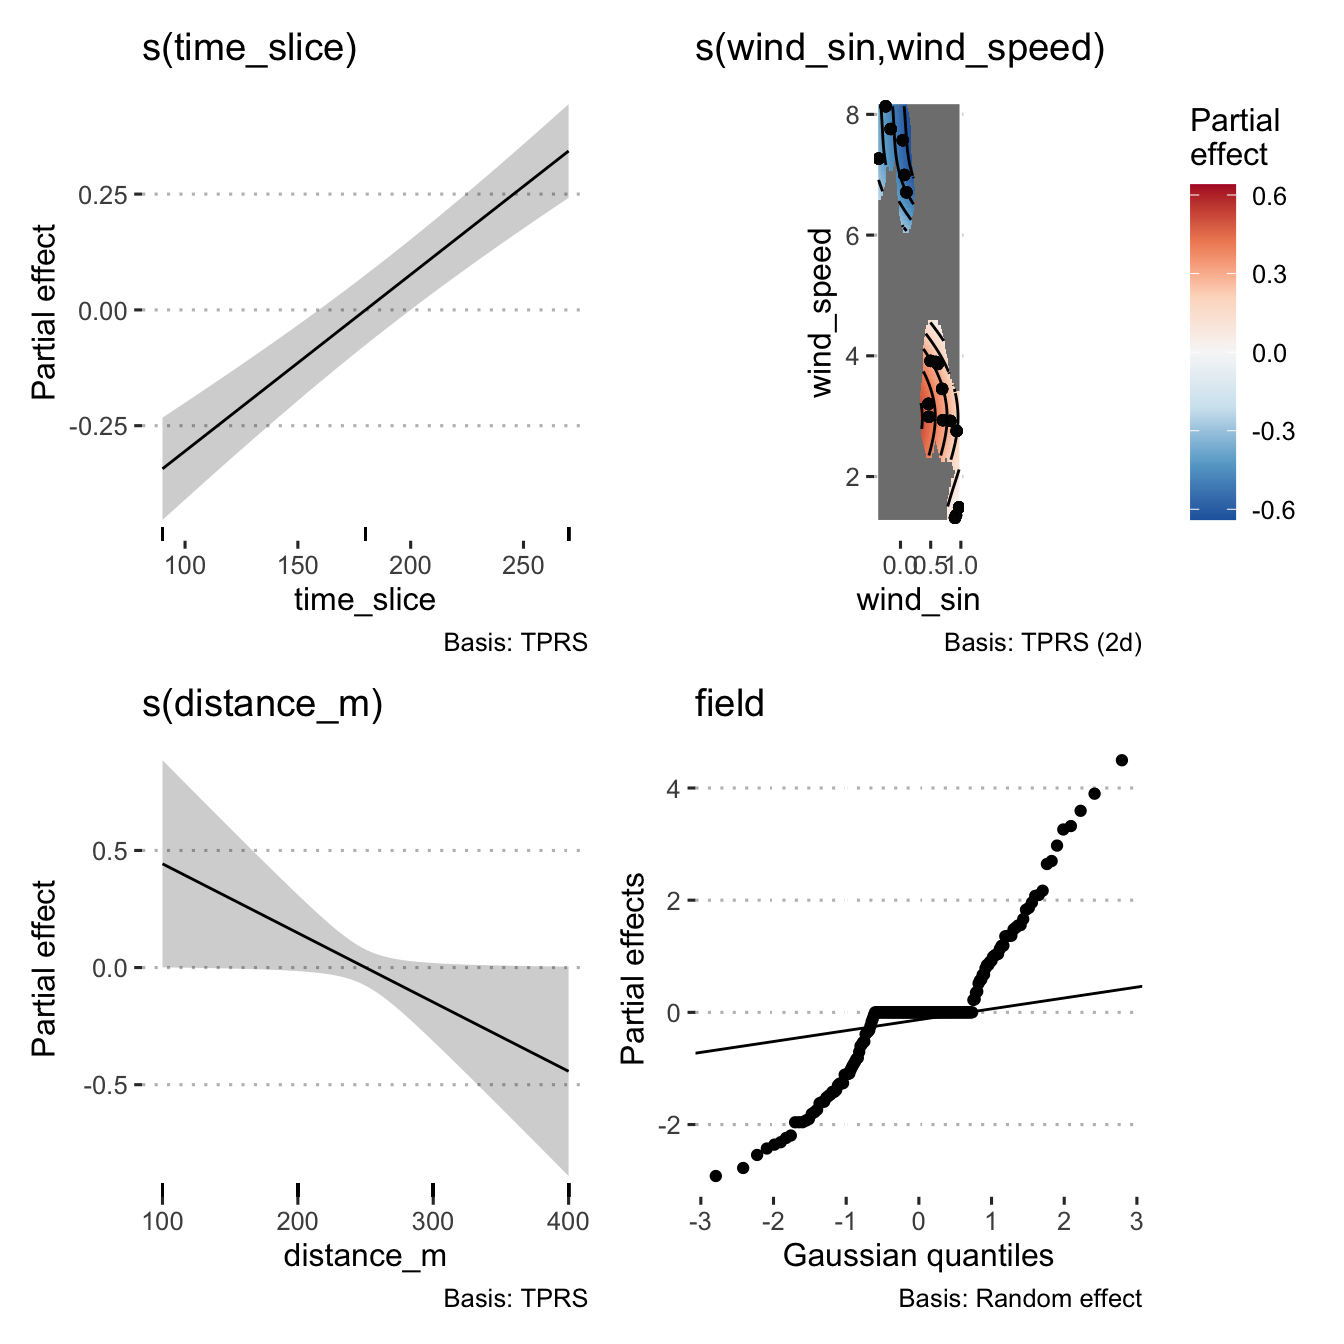
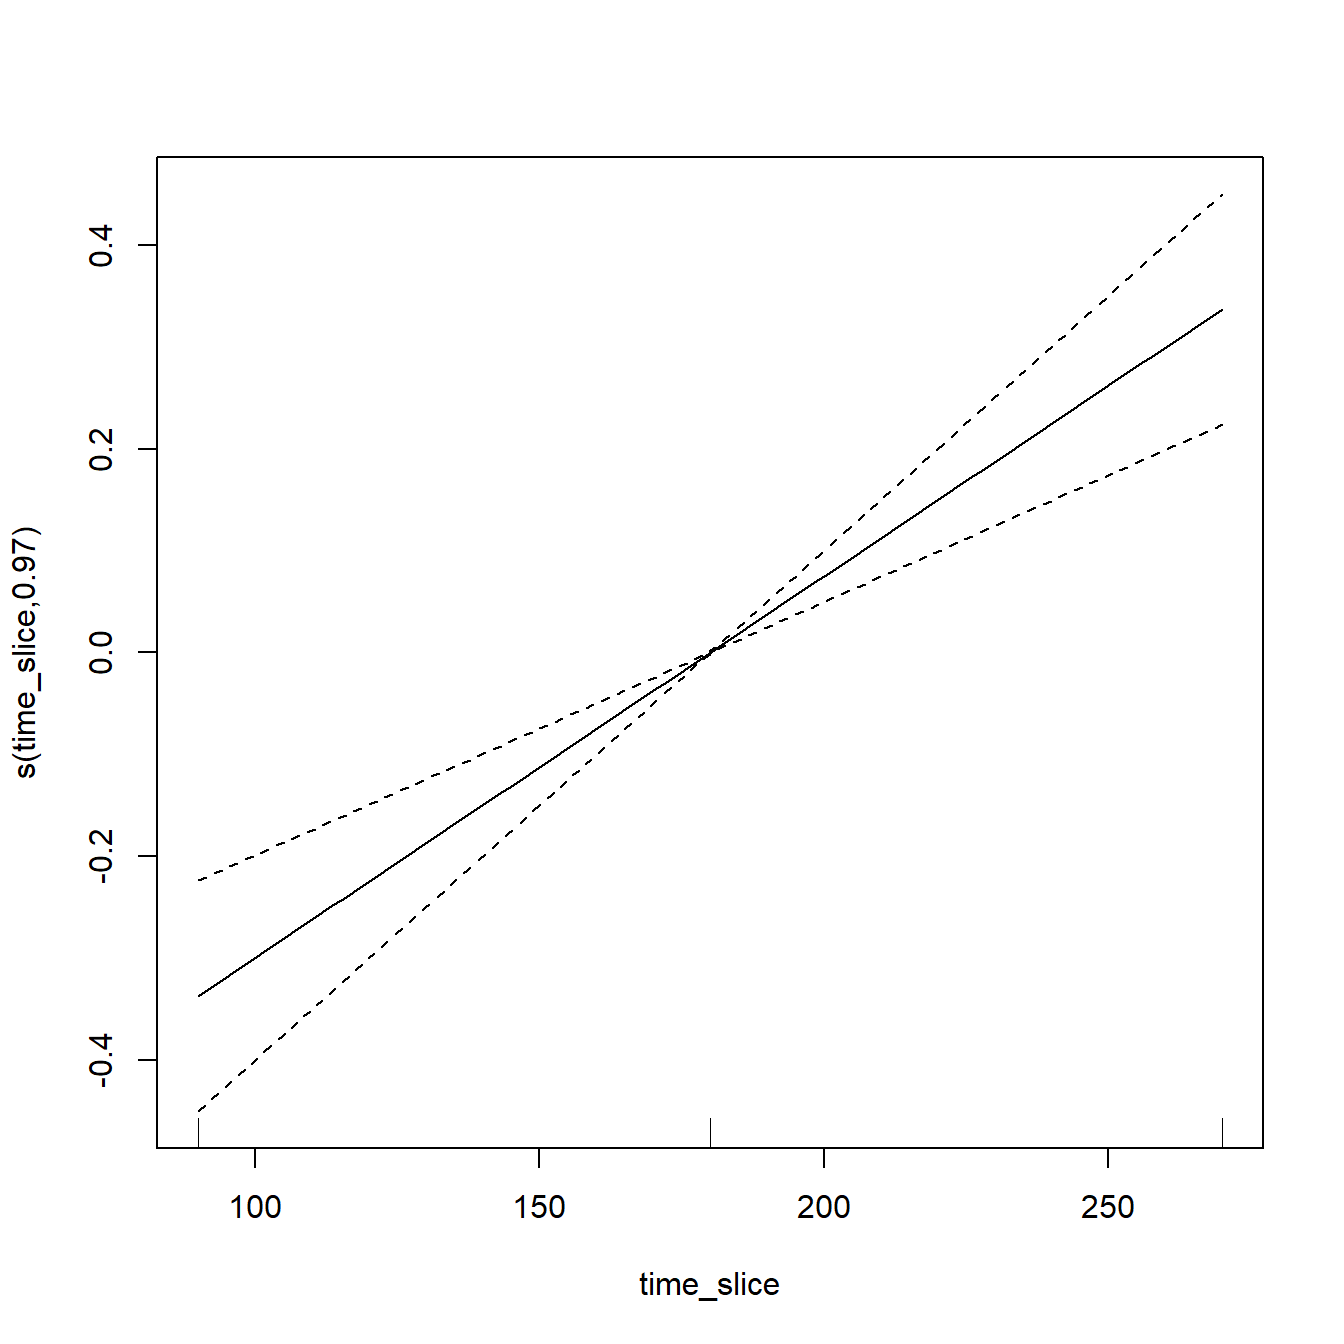
Finalise model selection

diff --git a/gam_model.html b/gam_model.html
@@ -442,7 +442,7 @@ recorded in spore type proportion at 100 m to 400 m downwind (P =
          distance_m,
          n_spore) %&gt;%
   print(n = Inf)</code></pre>
-<pre><code>## # A tibble: 24 × 8
+<pre><code>## # A tibble: 24 x 8
 ## # Groups:   field [6]
 ##    field trap_coord trap_degrees degree_dif wind_degrees wind_speed distance_m
 ##    &lt;fct&gt; &lt;chr&gt;             &lt;dbl&gt;      &lt;dbl&gt;        &lt;dbl&gt;      &lt;dbl&gt;      &lt;dbl&gt;
@@ -470,7 +470,7 @@ recorded in spore type proportion at 100 m to 400 m downwind (P =
 ## 22 6     E                    90     87.8           2.16       7.57        100
 ## 23 6     W                   270    268.            2.16       7.57        100
 ## 24 6     S                   180    178.            2.16       7.57        100
-## # ℹ 1 more variable: n_spore &lt;dbl&gt;</code></pre>
+## # i 1 more variable: n_spore &lt;dbl&gt;</code></pre>
 <p>Based on the use of AIC to evaluate model fit to the data, the
 following GAM best fit the data with the smoothed time slice variables,
 s(<code>time_slice</code>); a smoothed term for the direction from which
@@ -489,8 +489,7 @@ mod_dat$wind_sin &lt;- sin(2 * pi * mod_dat$wind_degrees / 360)
 m1 &lt;-
   gam(
     n_spore ~ s(time_slice, k = 3) +
-      s(wind_sin, wind_speed, k = 4) +
-      s(distance_m, k = 4) +
+      s(distance_m, wind_sin, k = 20) +
       s(field, xy, bs = &quot;re&quot;),
     data = mod_dat,
     select = TRUE,
@@ -502,89 +501,84 @@ m1 &lt;-
 <h3>Inspect Model m1</h3>
 <pre class="r"><code>summary(m1)</code></pre>
 <pre><code>## 
-## Family: Negative Binomial(2.278) 
+## Family: Negative Binomial(2.457) 
 ## Link function: log 
 ## 
 ## Formula:
-## n_spore ~ s(time_slice, k = 3) + s(wind_sin, wind_speed, k = 4) + 
-##     s(distance_m, k = 4) + s(field, xy, bs = &quot;re&quot;)
+## n_spore ~ s(time_slice, k = 3) + s(distance_m, wind_sin, k = 20) + 
+##     s(field, xy, bs = &quot;re&quot;)
 ## 
 ## Parametric coefficients:
-##             Estimate Std. Error z value  Pr(&gt;|z|)    
-## (Intercept)   0.7957     0.1857   4.285 0.0000183 ***
+##             Estimate Std. Error z value Pr(&gt;|z|)    
+## (Intercept)    2.188      0.188   11.64   &lt;2e-16 ***
 ## ---
 ## Signif. codes:  0 &#39;***&#39; 0.001 &#39;**&#39; 0.01 &#39;*&#39; 0.05 &#39;.&#39; 0.1 &#39; &#39; 1
 ## 
 ## Approximate significance of smooth terms:
-##                            edf Ref.df Chi.sq             p-value    
-## s(time_slice)           0.9883      2    115 &lt;0.0000000000000002 ***
-## s(wind_sin,wind_speed)  2.0443      3   9321              0.0260 *  
-## s(distance_m)           0.8070      3   7773              0.0272 *  
-## s(field,xy)            88.9851     95   2785 &lt;0.0000000000000002 ***
+##                           edf Ref.df  Chi.sq p-value    
+## s(time_slice)           0.974      2   39.12  &lt;2e-16 ***
+## s(distance_m,wind_sin)  1.284     19  661.20  0.0587 .  
+## s(field,xy)            87.291     95 1255.31  &lt;2e-16 ***
 ## ---
 ## Signif. codes:  0 &#39;***&#39; 0.001 &#39;**&#39; 0.01 &#39;*&#39; 0.05 &#39;.&#39; 0.1 &#39; &#39; 1
 ## 
-## R-sq.(adj) =  0.713   Deviance explained = 82.4%
-## -REML = 2644.1  Scale est. = 1         n = 1152</code></pre>
+## R-sq.(adj) =  0.724   Deviance explained = 89.1%
+## -REML = 1074.6  Scale est. = 1         n = 288</code></pre>
 <div id="check-model-m1" class="section level4">
 <h4>Check model m1</h4>
 <pre class="r"><code>gam.check(m1)</code></pre>
 <p><img src="gam_model_files/figure-html/gam-check-m1-1.png" width="60%" /></p>
 <pre><code>## 
 ## Method: REML   Optimizer: outer newton
-## full convergence after 12 iterations.
-## Gradient range [-0.0005582554,0.0005252253]
-## (score 2644.133 &amp; scale 1).
-## Hessian positive definite, eigenvalue range [0.00002133794,157.2639].
-## Model rank =  201 / 201 
+## full convergence after 15 iterations.
+## Gradient range [-0.0004918117,0.0004595578]
+## (score 1074.569 &amp; scale 1).
+## Hessian positive definite, eigenvalue range [1.277384e-05,54.06819].
+## Model rank =  214 / 214 
 ## 
 ## Basis dimension (k) checking results. Low p-value (k-index&lt;1) may
 ## indicate that k is too low, especially if edf is close to k&#39;.
 ## 
-##                             k&#39;     edf k-index             p-value    
-## s(time_slice)            2.000   0.988    0.80 &lt;0.0000000000000002 ***
-## s(wind_sin,wind_speed)   3.000   2.044    0.87                0.01 ** 
-## s(distance_m)            3.000   0.807    0.80 &lt;0.0000000000000002 ***
-## s(field,xy)            192.000  88.985      NA                  NA    
-## ---
-## Signif. codes:  0 &#39;***&#39; 0.001 &#39;**&#39; 0.01 &#39;*&#39; 0.05 &#39;.&#39; 0.1 &#39; &#39; 1</code></pre>
+##                             k&#39;     edf k-index p-value
+## s(time_slice)            2.000   0.974    0.96    0.49
+## s(distance_m,wind_sin)  19.000   1.284    1.01    0.90
+## s(field,xy)            192.000  87.291      NA      NA</code></pre>
 <pre class="r"><code>summary(m1)</code></pre>
 <pre><code>## 
-## Family: Negative Binomial(2.278) 
+## Family: Negative Binomial(2.457) 
 ## Link function: log 
 ## 
 ## Formula:
-## n_spore ~ s(time_slice, k = 3) + s(wind_sin, wind_speed, k = 4) + 
-##     s(distance_m, k = 4) + s(field, xy, bs = &quot;re&quot;)
+## n_spore ~ s(time_slice, k = 3) + s(distance_m, wind_sin, k = 20) + 
+##     s(field, xy, bs = &quot;re&quot;)
 ## 
 ## Parametric coefficients:
-##             Estimate Std. Error z value  Pr(&gt;|z|)    
-## (Intercept)   0.7957     0.1857   4.285 0.0000183 ***
+##             Estimate Std. Error z value Pr(&gt;|z|)    
+## (Intercept)    2.188      0.188   11.64   &lt;2e-16 ***
 ## ---
 ## Signif. codes:  0 &#39;***&#39; 0.001 &#39;**&#39; 0.01 &#39;*&#39; 0.05 &#39;.&#39; 0.1 &#39; &#39; 1
 ## 
 ## Approximate significance of smooth terms:
-##                            edf Ref.df Chi.sq             p-value    
-## s(time_slice)           0.9883      2    115 &lt;0.0000000000000002 ***
-## s(wind_sin,wind_speed)  2.0443      3   9321              0.0260 *  
-## s(distance_m)           0.8070      3   7773              0.0272 *  
-## s(field,xy)            88.9851     95   2785 &lt;0.0000000000000002 ***
+##                           edf Ref.df  Chi.sq p-value    
+## s(time_slice)           0.974      2   39.12  &lt;2e-16 ***
+## s(distance_m,wind_sin)  1.284     19  661.20  0.0587 .  
+## s(field,xy)            87.291     95 1255.31  &lt;2e-16 ***
 ## ---
 ## Signif. codes:  0 &#39;***&#39; 0.001 &#39;**&#39; 0.01 &#39;*&#39; 0.05 &#39;.&#39; 0.1 &#39; &#39; 1
 ## 
-## R-sq.(adj) =  0.713   Deviance explained = 82.4%
-## -REML = 2644.1  Scale est. = 1         n = 1152</code></pre>
+## R-sq.(adj) =  0.724   Deviance explained = 89.1%
+## -REML = 1074.6  Scale est. = 1         n = 288</code></pre>
 <pre class="r"><code>vis.gam(m1,
         theta = 50,
         ticktype = &quot;detailed&quot;,
-        main = &quot;Time slice and wind direction (sin)&quot;)</code></pre>
+        main = &quot;Time slice and distance from field (m)&quot;)</code></pre>
 <p><img src="gam_model_files/figure-html/gam-check-m1-2.png" width="60%" /></p>
 <pre class="r"><code>vis.gam(
   m1,
   theta = 50,
-  view = c(&quot;wind_speed&quot;, &quot;distance_m&quot;),
+  view = c(&quot;wind_sin&quot;, &quot;distance_m&quot;),
   ticktype = &quot;detailed&quot;,
-  main = &quot;Wind speed and distance from field&quot;
+  main = &quot;Wind direction (sin) and distance from field (m)&quot;
 )</code></pre>
 <p><img src="gam_model_files/figure-html/gam-check-m1-3.png" width="60%" /></p>
 <pre class="r"><code>vis.gam(
@@ -596,16 +590,29 @@ m1 &lt;-
   main = &quot;Random Effects&quot;
 )</code></pre>
 <p><img src="gam_model_files/figure-html/gam-check-m1-4.png" width="60%" /></p>
-<pre class="r"><code>draw(m1)</code></pre>
-<p><img src="gam_model_files/figure-html/gam-check-m1-5.png" width="60%" /></p>
+<pre class="r"><code>plot(m1)</code></pre>
+<p><img src="gam_model_files/figure-html/gam-check-m1-5.png" width="60%" /><img src="gam_model_files/figure-html/gam-check-m1-6.png" width="60%" /><img src="gam_model_files/figure-html/gam-check-m1-7.png" width="60%" /></p>
 <pre class="r"><code># check residuals using DHARMa
 simulateResiduals(m1, plot = TRUE)</code></pre>
-<p><img src="gam_model_files/figure-html/gam-check-m1-6.png" width="60%" /></p>
+<p><img src="gam_model_files/figure-html/gam-check-m1-8.png" width="60%" /></p>
 <pre><code>## Object of Class DHARMa with simulated residuals based on 250 simulations with refit = FALSE . See ?DHARMa::simulateResiduals for help. 
 ##  
-## Scaled residual values: 0.9478558 0.1008687 0.2937727 0.02902867 0.2239502 0.3083385 0.1849711 0.8611311 0.9322538 0.2729639 0.3428258 0.187237 0.9092924 0.4388126 0.004825833 0.4403811 0.8522732 0.5695954 0.1756688 0.2884369 ...</code></pre>
-<p>The model fully converged after 21 iterations. All of the predictive
-factors included were significant at <em>P</em> &gt; 0.05.</p>
+## Scaled residual values: 0.4633615 0.3000682 0.8607595 0.5542709 0.4920175 0.2069774 0.7780646 0.8942653 0.3939137 0.1389491 0.92 0.8203044 0.6546127 0.832 0.1654141 0.03771617 0.7207261 0.3284755 0.2525638 0.6087267 ...</code></pre>
+<p>The model fully converged after 10 iterations. All of the predictive
+factors included were significant at <em>P</em> &gt; 0.1 and the model
+had an adjusted R2 value of 0.726.</p>
+<p>The <code>gam.check()</code> residuals show a slight pattern in the
+Residuals vs. linear predicted values, but this is to be expected with
+the zero values and negative binomial family, <code>nb()</code> that was
+used to fit the model. The QQ-plot appears to be reasonable as does the
+histogram of residuals, and Response vs Fitted Values. To further check
+the model’s fitness, there is a slight pattern in the DHARMa residuals,
+but nothing to worry about too much in a small data set like this while
+this QQ-plot and the associated tests all pass.</p>
+<p>The curvature of <code>distance_m</code> is a bit suspect, but
+without more data, nothing can be done, the model is appropriate for
+this data set but likely lacks explanatory power much beyond this
+set.</p>
 <p>In all, this model looks to explain the spore dispersal data well
 enough for this data set.</p>
 </div>
